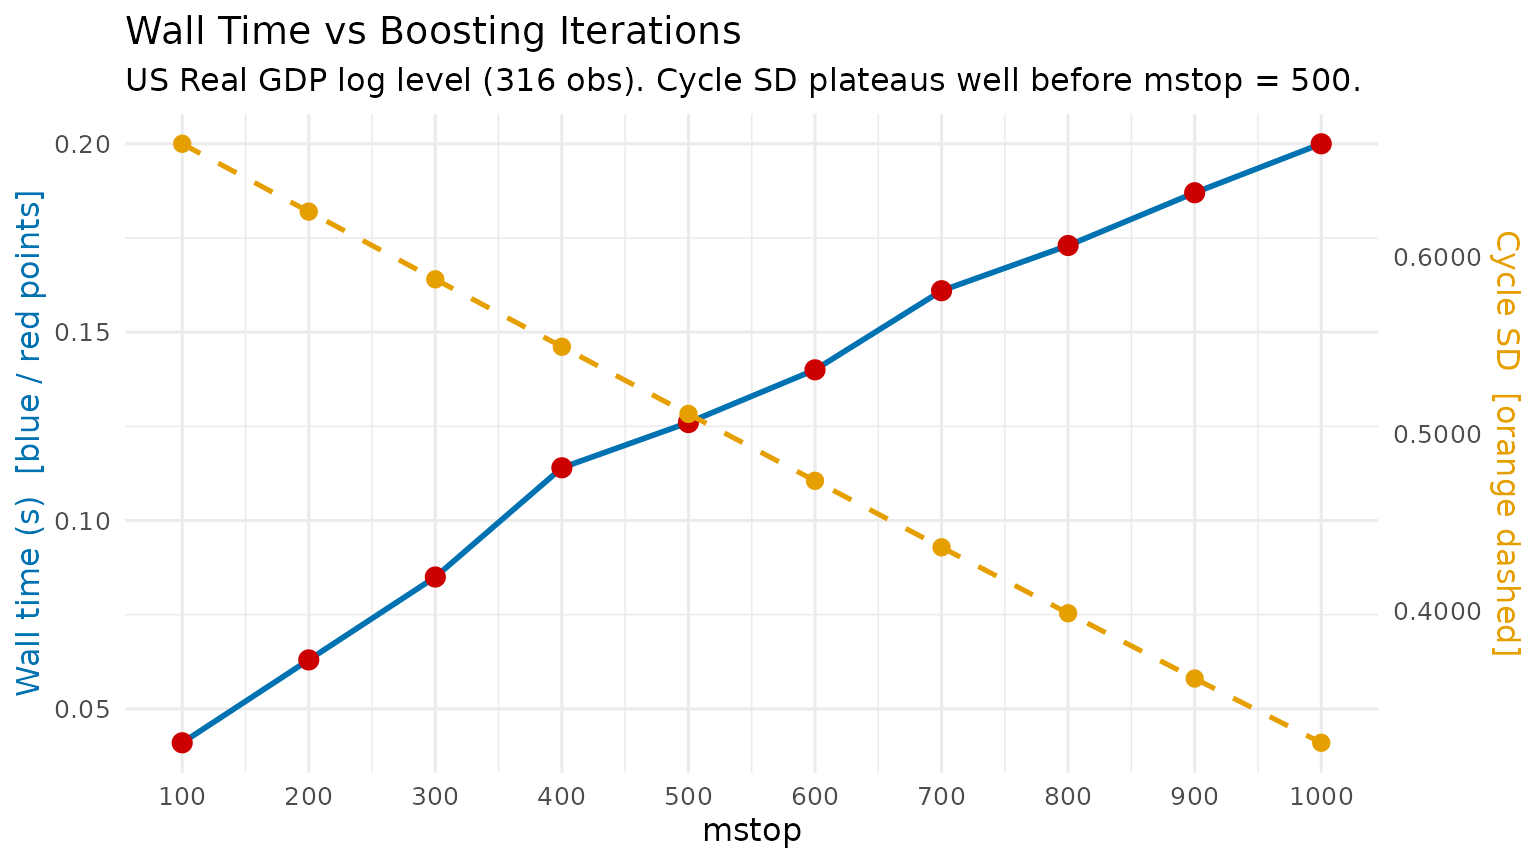
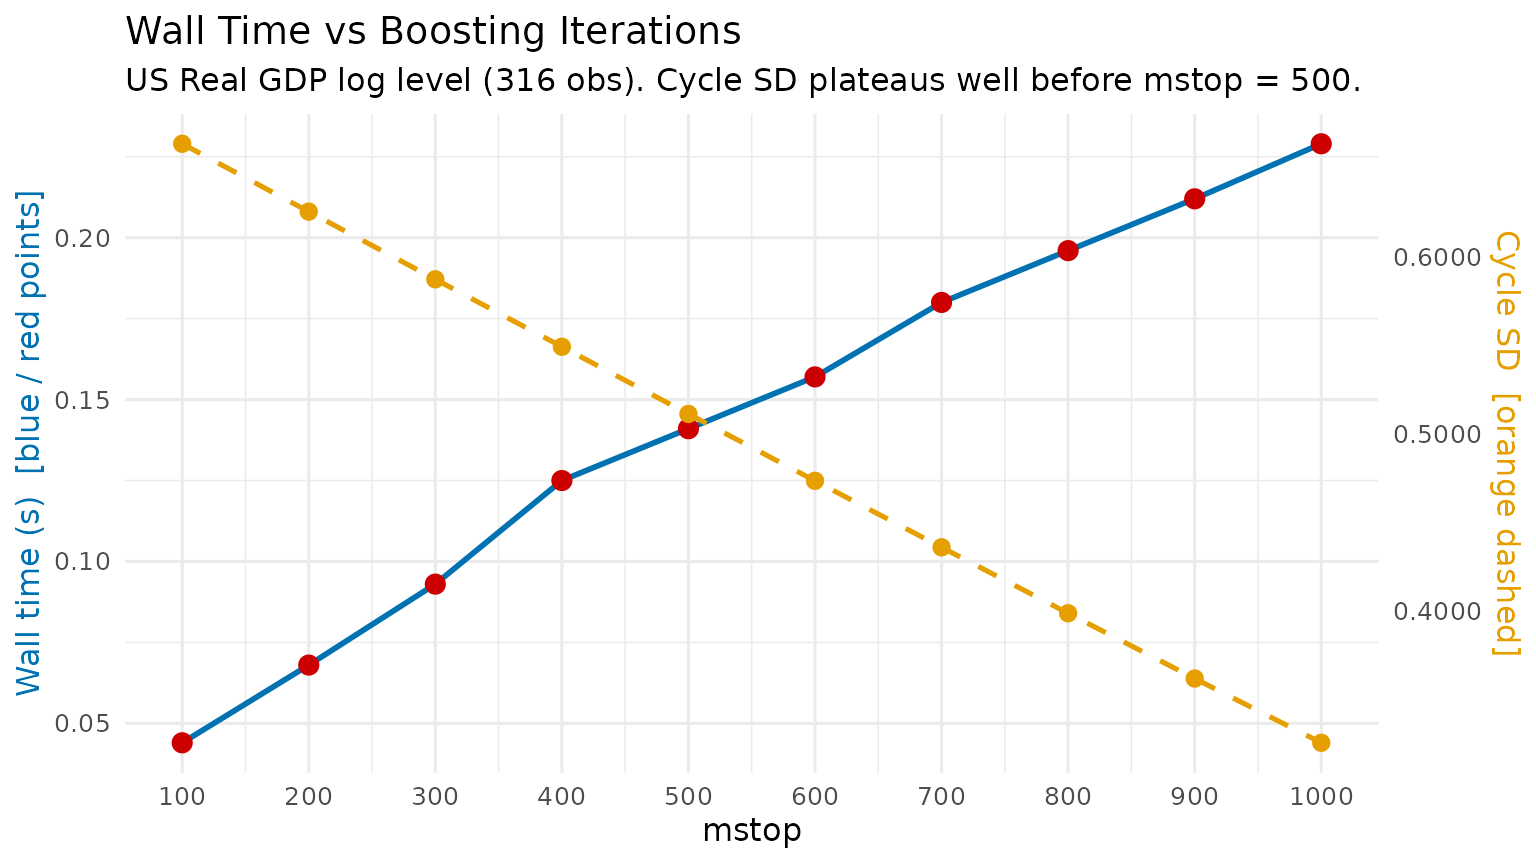
Deploying to gh-pages from @ michal0091/MacroFilters@70fddb53ea1705a22545e4270d305d63a2cb7db7 🚀

diff --git a/articles/tuning_mbh.html b/articles/tuning_mbh.html
@@ -349,52 +349,52 @@ boosting and the trend responds to the COVID shock.</li>
 <tbody>
 <tr class="odd">
 <td align="right">100</td>
-<td align="right">0.041</td>
+<td align="right">0.044</td>
 <td align="right">0.663846</td>
 </tr>
 <tr class="even">
 <td align="right">200</td>
-<td align="right">0.063</td>
+<td align="right">0.068</td>
 <td align="right">0.625541</td>
 </tr>
 <tr class="odd">
 <td align="right">300</td>
-<td align="right">0.085</td>
+<td align="right">0.093</td>
 <td align="right">0.587335</td>
 </tr>
 <tr class="even">
 <td align="right">400</td>
-<td align="right">0.114</td>
+<td align="right">0.125</td>
 <td align="right">0.549249</td>
 </tr>
 <tr class="odd">
 <td align="right">500</td>
-<td align="right">0.126</td>
+<td align="right">0.141</td>
 <td align="right">0.511309</td>
 </tr>
 <tr class="even">
 <td align="right">600</td>
-<td align="right">0.140</td>
+<td align="right">0.157</td>
 <td align="right">0.473548</td>
 </tr>
 <tr class="odd">
 <td align="right">700</td>
-<td align="right">0.161</td>
+<td align="right">0.180</td>
 <td align="right">0.436016</td>
 </tr>
 <tr class="even">
 <td align="right">800</td>
-<td align="right">0.173</td>
+<td align="right">0.196</td>
 <td align="right">0.398778</td>
 </tr>
 <tr class="odd">
 <td align="right">900</td>
-<td align="right">0.187</td>
+<td align="right">0.212</td>
 <td align="right">0.361931</td>
 </tr>
 <tr class="even">
 <td align="right">1000</td>
-<td align="right">0.200</td>
+<td align="right">0.229</td>
 <td align="right">0.325643</td>
 </tr>
 </tbody>

diff --git a/articles/introduction.html b/articles/introduction.html
@@ -314,7 +314,7 @@ test</td>
 <span><span class="co">#&gt;    Observations : 100</span></span>
 <span><span class="co">#&gt;    Parameters   : lambda = 1600, iterations = 47, stopping_rule = bic</span></span>
 <span><span class="co">#&gt;    Cycle range  : [-5.487, 4.068]  sd = 1.857</span></span>
-<span><span class="co">#&gt;    Compute time : 0.003 s</span></span></code></pre></div>
+<span><span class="co">#&gt;    Compute time : 0.002 s</span></span></code></pre></div>
 <p>Internally, <strong>MacroFilters</strong> precomputes the sparse
 penalty matrix
 <math display="inline" xmlns="http://www.w3.org/1998/Math/MathML"><semantics><mrow><mi>Q</mi><mo>=</mo><mo stretchy="false" form="prefix">(</mo><mi>I</mi><mo>+</mo><mi>λ</mi><msup><mi>D</mi><mo>′</mo></msup><mi>D</mi><msup><mo stretchy="false" form="postfix">)</mo><mrow><mi>−</mi><mn>1</mn></mrow></msup></mrow><annotation encoding="application/x-tex">Q = (I + \lambda D'D)^{-1}</annotation></semantics></math>
@@ -485,7 +485,7 @@ a demanding real-world stress test for any trend filter.</p>
 <span><span class="co">#&gt;    Observations : 105</span></span>
 <span><span class="co">#&gt;    Parameters   : knots = 52, d = 0.01463, mstop = 500, mstop_initial = 500, nu = 0.1, df = 4, select_mstop = FALSE</span></span>
 <span><span class="co">#&gt;    Cycle range  : [-0.2231, 0.03137]  sd = 0.02963</span></span>
-<span><span class="co">#&gt;    Compute time : 0.100 s</span></span></code></pre></div>
+<span><span class="co">#&gt;    Compute time : 0.118 s</span></span></code></pre></div>
 <p><img src="introduction_files/figure-html/mbh-plot-1.png" class="r-plt" alt="" width="100%"></p>
 <hr>
 </div>
@@ -566,7 +566,7 @@ object additionally carries two bootstrap confidence bands (see the
 <span><span class="co">#&gt;    Observations : 105</span></span>
 <span><span class="co">#&gt;    Parameters   : knots = 52, d = 0.01463, mstop = 500, mstop_initial = 500, nu = 0.1, df = 4, select_mstop = FALSE</span></span>
 <span><span class="co">#&gt;    Cycle range  : [-0.2231, 0.03137]  sd = 0.02963</span></span>
-<span><span class="co">#&gt;    Compute time : 0.100 s</span></span></code></pre></div>
+<span><span class="co">#&gt;    Compute time : 0.118 s</span></span></code></pre></div>
 <p>The <code>print</code> method shows the method, the number of
 observations, the key parameters, the cycle range, and how long the
 filter took to run.</p>
@@ -601,7 +601,7 @@ filter took to run.</p>
 <span><span class="co">#&gt;  $ df            : int 4</span></span>
 <span><span class="co">#&gt;  $ select_mstop  : logi FALSE</span></span>
 <span><span class="co">#&gt;  $ boundary.knots: NULL</span></span>
-<span><span class="co">#&gt;  $ compute_time  : num 0.1</span></span>
+<span><span class="co">#&gt;  $ compute_time  : num 0.118</span></span>
 <span><span class="co">#&gt;  $ ts_class      : chr "ts"</span></span>
 <span><span class="co">#&gt;  $ tsp           : num [1:3] 2000 2026 4</span></span>
 <span><span class="co">#&gt;  $ idx           : NULL</span></span></code></pre></div>

diff --git a/reference/mbh_filter.html b/reference/mbh_filter.html
@@ -256,7 +256,7 @@ observations. Keep <code>df = 4</code> (the default) for real-time applications.
 <span class="r-out co"><span class="r-pr">#&gt;</span>    Observations : 80</span>
 <span class="r-out co"><span class="r-pr">#&gt;</span>    Parameters   : knots = 40, d = 1.627, mstop = 100, mstop_initial = 100, nu = 0.1, df = 4, select_mstop = FALSE</span>
 <span class="r-out co"><span class="r-pr">#&gt;</span>    Cycle range  : [-2.66, 4.533]  sd = 1.518</span>
-<span class="r-out co"><span class="r-pr">#&gt;</span>    Compute time : 0.027 s</span>
+<span class="r-out co"><span class="r-pr">#&gt;</span>    Compute time : 0.026 s</span>
 <span class="r-in"><span></span></span>
 <span class="r-in"><span><span class="co"># \donttest{</span></span></span>
 <span class="r-in"><span><span class="co"># Full example with default parameters</span></span></span>
@@ -268,7 +268,7 @@ observations. Keep <code>df = 4</code> (the default) for real-time applications.
 <span class="r-out co"><span class="r-pr">#&gt;</span>    Observations : 200</span>
 <span class="r-out co"><span class="r-pr">#&gt;</span>    Parameters   : knots = 100, d = 1.162, mstop = 500, mstop_initial = 500, nu = 0.1, df = 4, select_mstop = FALSE</span>
 <span class="r-out co"><span class="r-pr">#&gt;</span>    Cycle range  : [-4.077, 3.726]  sd = 1.419</span>
-<span class="r-out co"><span class="r-pr">#&gt;</span>    Compute time : 0.126 s</span>
+<span class="r-out co"><span class="r-pr">#&gt;</span>    Compute time : 0.142 s</span>
 <span class="r-in"><span><span class="co"># }</span></span></span>
 </code></pre></div>
     </div>

diff --git a/reference/bhp_filter.html b/reference/bhp_filter.html
@@ -174,7 +174,7 @@ Filter. <em>International Economic Review</em>, 62(2), 521–570.</p>
 <span class="r-out co"><span class="r-pr">#&gt;</span>    Observations : 200</span>
 <span class="r-out co"><span class="r-pr">#&gt;</span>    Parameters   : lambda = 1600, iterations = 100, stopping_rule = bic</span>
 <span class="r-out co"><span class="r-pr">#&gt;</span>    Cycle range  : [-1.657, 1.673]  sd = 0.6962</span>
-<span class="r-out co"><span class="r-pr">#&gt;</span>    Compute time : 0.005 s</span>
+<span class="r-out co"><span class="r-pr">#&gt;</span>    Compute time : 0.006 s</span>
 </code></pre></div>
     </div>
   </main><aside class="col-md-3"><nav id="toc" aria-label="Table of contents"><h2>On this page</h2>

diff --git a/reference/hp_filter.html b/reference/hp_filter.html
@@ -137,7 +137,7 @@ for the Frequency of Observations. <em>Review of Economics and Statistics</em>,
 <span class="r-out co"><span class="r-pr">#&gt;</span>    Observations : 200</span>
 <span class="r-out co"><span class="r-pr">#&gt;</span>    Parameters   : lambda = 1600</span>
 <span class="r-out co"><span class="r-pr">#&gt;</span>    Cycle range  : [-2.803, 4.151]  sd = 1.189</span>
-<span class="r-out co"><span class="r-pr">#&gt;</span>    Compute time : 0.002 s</span>
+<span class="r-out co"><span class="r-pr">#&gt;</span>    Compute time : 0.003 s</span>
 </code></pre></div>
     </div>
   </main><aside class="col-md-3"><nav id="toc" aria-label="Table of contents"><h2>On this page</h2>

diff --git a/articles/tuning_mbh.md b/articles/tuning_mbh.md
@@ -260,16 +260,16 @@ knitr::kable(
 
 | mstop | Wall time (s) | Cycle SD |
 |------:|--------------:|---------:|
-|   100 |         0.041 | 0.663846 |
-|   200 |         0.063 | 0.625541 |
-|   300 |         0.085 | 0.587335 |
-|   400 |         0.114 | 0.549249 |
-|   500 |         0.126 | 0.511309 |
-|   600 |         0.140 | 0.473548 |
-|   700 |         0.161 | 0.436016 |
-|   800 |         0.173 | 0.398778 |
-|   900 |         0.187 | 0.361931 |
-|  1000 |         0.200 | 0.325643 |
+|   100 |         0.044 | 0.663846 |
+|   200 |         0.068 | 0.625541 |
+|   300 |         0.093 | 0.587335 |
+|   400 |         0.125 | 0.549249 |
+|   500 |         0.141 | 0.511309 |
+|   600 |         0.157 | 0.473548 |
+|   700 |         0.180 | 0.436016 |
+|   800 |         0.196 | 0.398778 |
+|   900 |         0.212 | 0.361931 |
+|  1000 |         0.229 | 0.325643 |
 
 MBH computational benchmark — US log GDP (316 obs) {.table}
 

diff --git a/articles/introduction.md b/articles/introduction.md
@@ -204,7 +204,7 @@ bhp
 #>    Observations : 100
 #>    Parameters   : lambda = 1600, iterations = 47, stopping_rule = bic
 #>    Cycle range  : [-5.487, 4.068]  sd = 1.857
-#>    Compute time : 0.003 s
+#>    Compute time : 0.002 s
 ```
 
 Internally, **MacroFilters** precomputes the sparse penalty matrix
@@ -337,7 +337,7 @@ mbh_res
 #>    Observations : 105
 #>    Parameters   : knots = 52, d = 0.01463, mstop = 500, mstop_initial = 500, nu = 0.1, df = 4, select_mstop = FALSE
 #>    Cycle range  : [-0.2231, 0.03137]  sd = 0.02963
-#>    Compute time : 0.100 s
+#>    Compute time : 0.118 s
 ```
 
 ![](introduction_files/figure-html/mbh-plot-1.png)
@@ -374,7 +374,7 @@ mbh_res
 #>    Observations : 105
 #>    Parameters   : knots = 52, d = 0.01463, mstop = 500, mstop_initial = 500, nu = 0.1, df = 4, select_mstop = FALSE
 #>    Cycle range  : [-0.2231, 0.03137]  sd = 0.02963
-#>    Compute time : 0.100 s
+#>    Compute time : 0.118 s
 ```
 
 The `print` method shows the method, the number of observations, the key
@@ -411,7 +411,7 @@ str(mbh_res$meta)
 #>  $ df            : int 4
 #>  $ select_mstop  : logi FALSE
 #>  $ boundary.knots: NULL
-#>  $ compute_time  : num 0.1
+#>  $ compute_time  : num 0.118
 #>  $ ts_class      : chr "ts"
 #>  $ tsp           : num [1:3] 2000 2026 4
 #>  $ idx           : NULL

diff --git a/reference/mbh_filter.md b/reference/mbh_filter.md
@@ -222,7 +222,7 @@ print(result)
 #>    Observations : 80
 #>    Parameters   : knots = 40, d = 1.627, mstop = 100, mstop_initial = 100, nu = 0.1, df = 4, select_mstop = FALSE
 #>    Cycle range  : [-2.66, 4.533]  sd = 1.518
-#>    Compute time : 0.027 s
+#>    Compute time : 0.026 s
 
 # \donttest{
 # Full example with default parameters
@@ -234,6 +234,6 @@ print(result2)
 #>    Observations : 200
 #>    Parameters   : knots = 100, d = 1.162, mstop = 500, mstop_initial = 500, nu = 0.1, df = 4, select_mstop = FALSE
 #>    Cycle range  : [-4.077, 3.726]  sd = 1.419
-#>    Compute time : 0.126 s
+#>    Compute time : 0.142 s
 # }
 ```

diff --git a/reference/bhp_filter.md b/reference/bhp_filter.md
@@ -118,5 +118,5 @@ print(result)
 #>    Observations : 200
 #>    Parameters   : lambda = 1600, iterations = 100, stopping_rule = bic
 #>    Cycle range  : [-1.657, 1.673]  sd = 0.6962
-#>    Compute time : 0.005 s
+#>    Compute time : 0.006 s
 ```

diff --git a/reference/hp_filter.md b/reference/hp_filter.md
@@ -91,5 +91,5 @@ print(result)
 #>    Observations : 200
 #>    Parameters   : lambda = 1600
 #>    Cycle range  : [-2.803, 4.151]  sd = 1.189
-#>    Compute time : 0.002 s
+#>    Compute time : 0.003 s
 ```